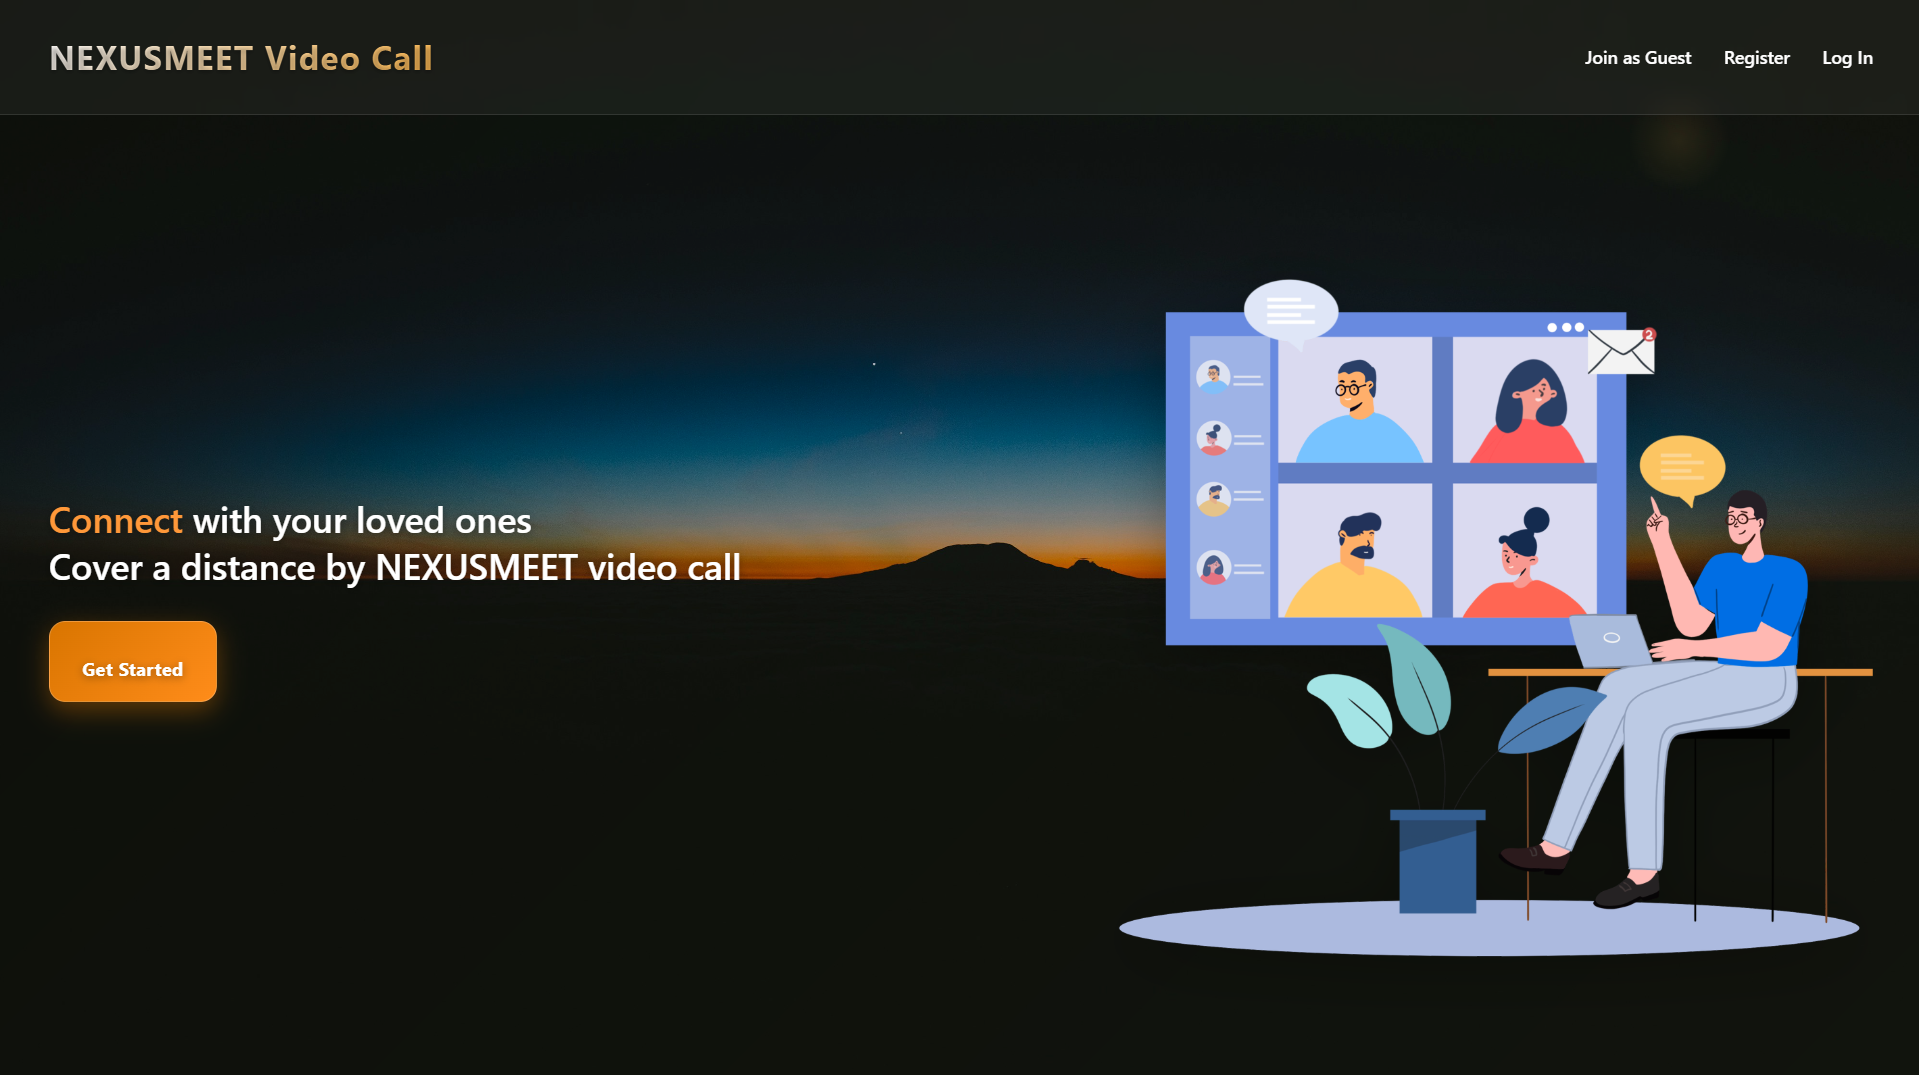
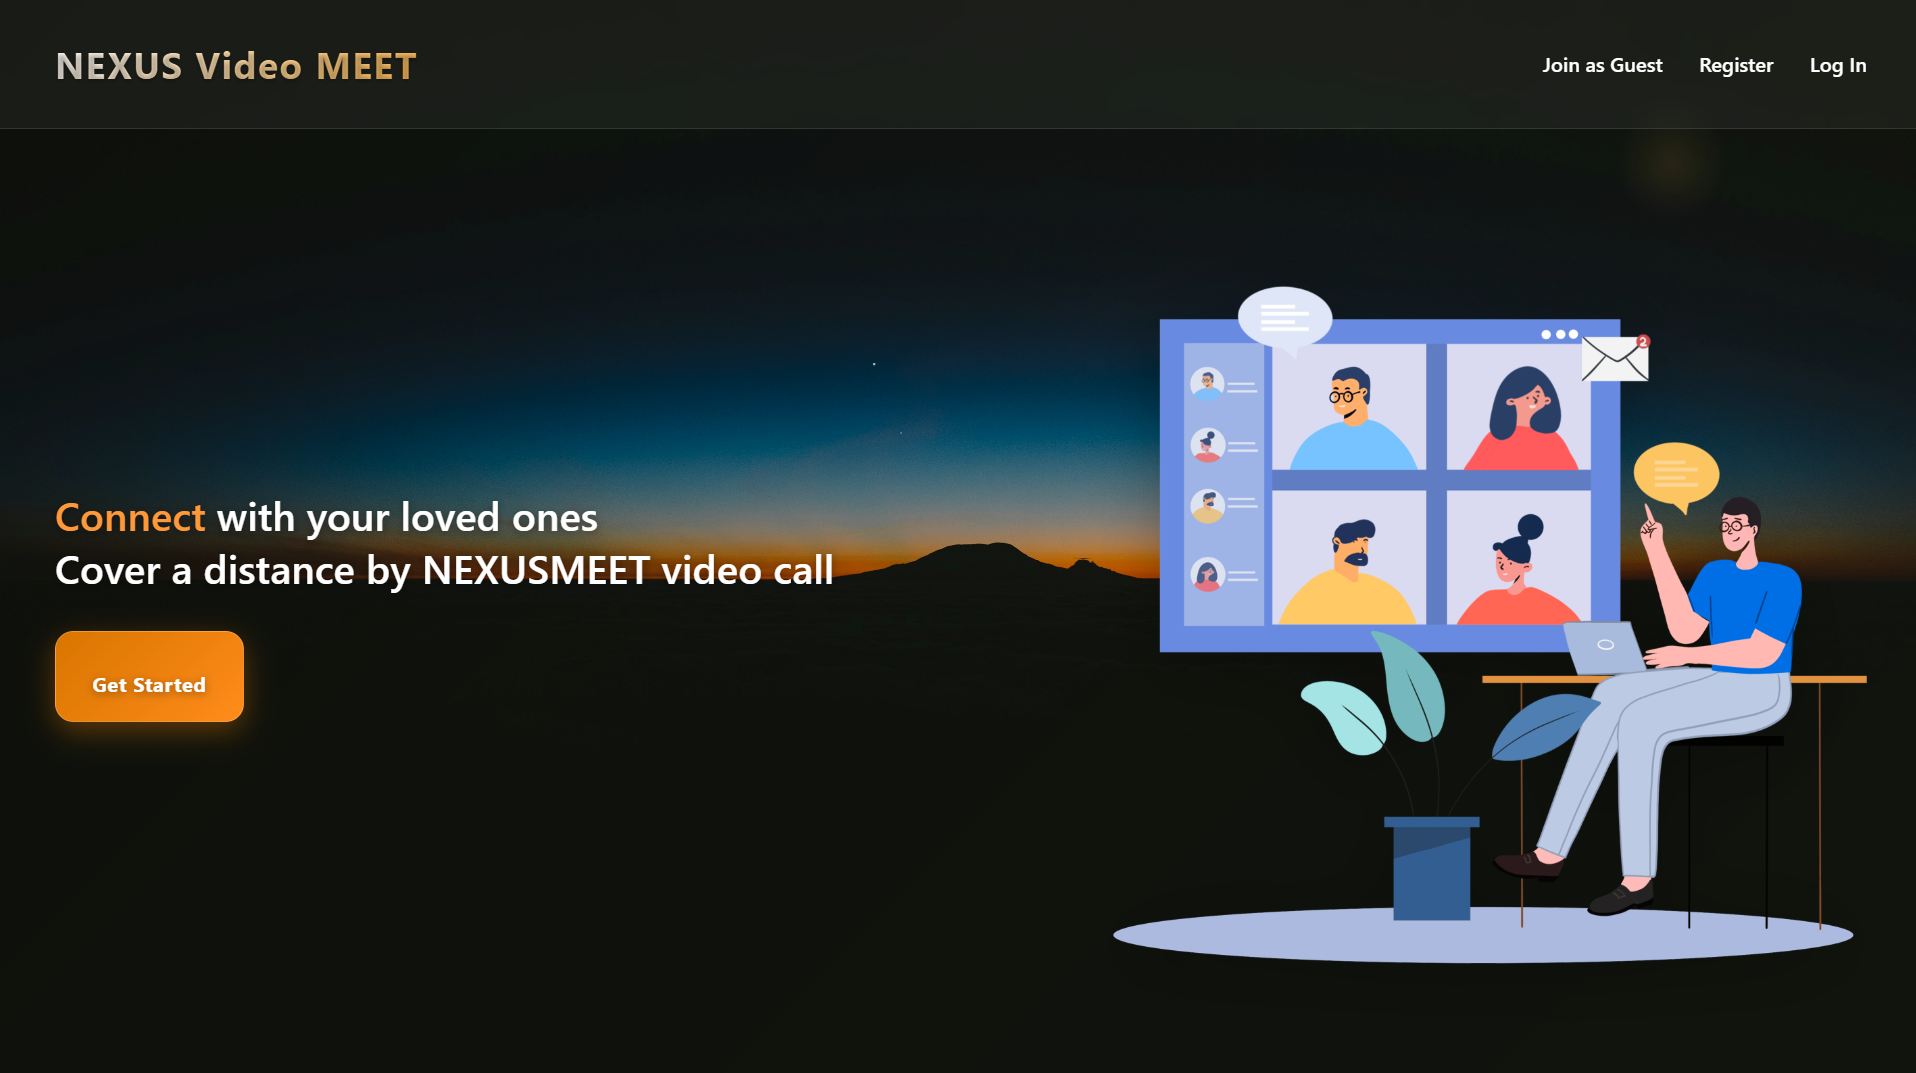
Readme update

diff --git a/frontend/src/pages/landing.jsx b/frontend/src/pages/landing.jsx
@@ -7,7 +7,7 @@ export default function LandingPage() {
     <div className="landingPageContainer">
       <nav>
         <div className="navHeader">
-          <h2>NEXUSMEET Video Call</h2>
+          <h2>NEXUS Video MEET</h2>
         </div>
         <div className="navList">
           <Link to="/guest">Join as Guest</Link>
